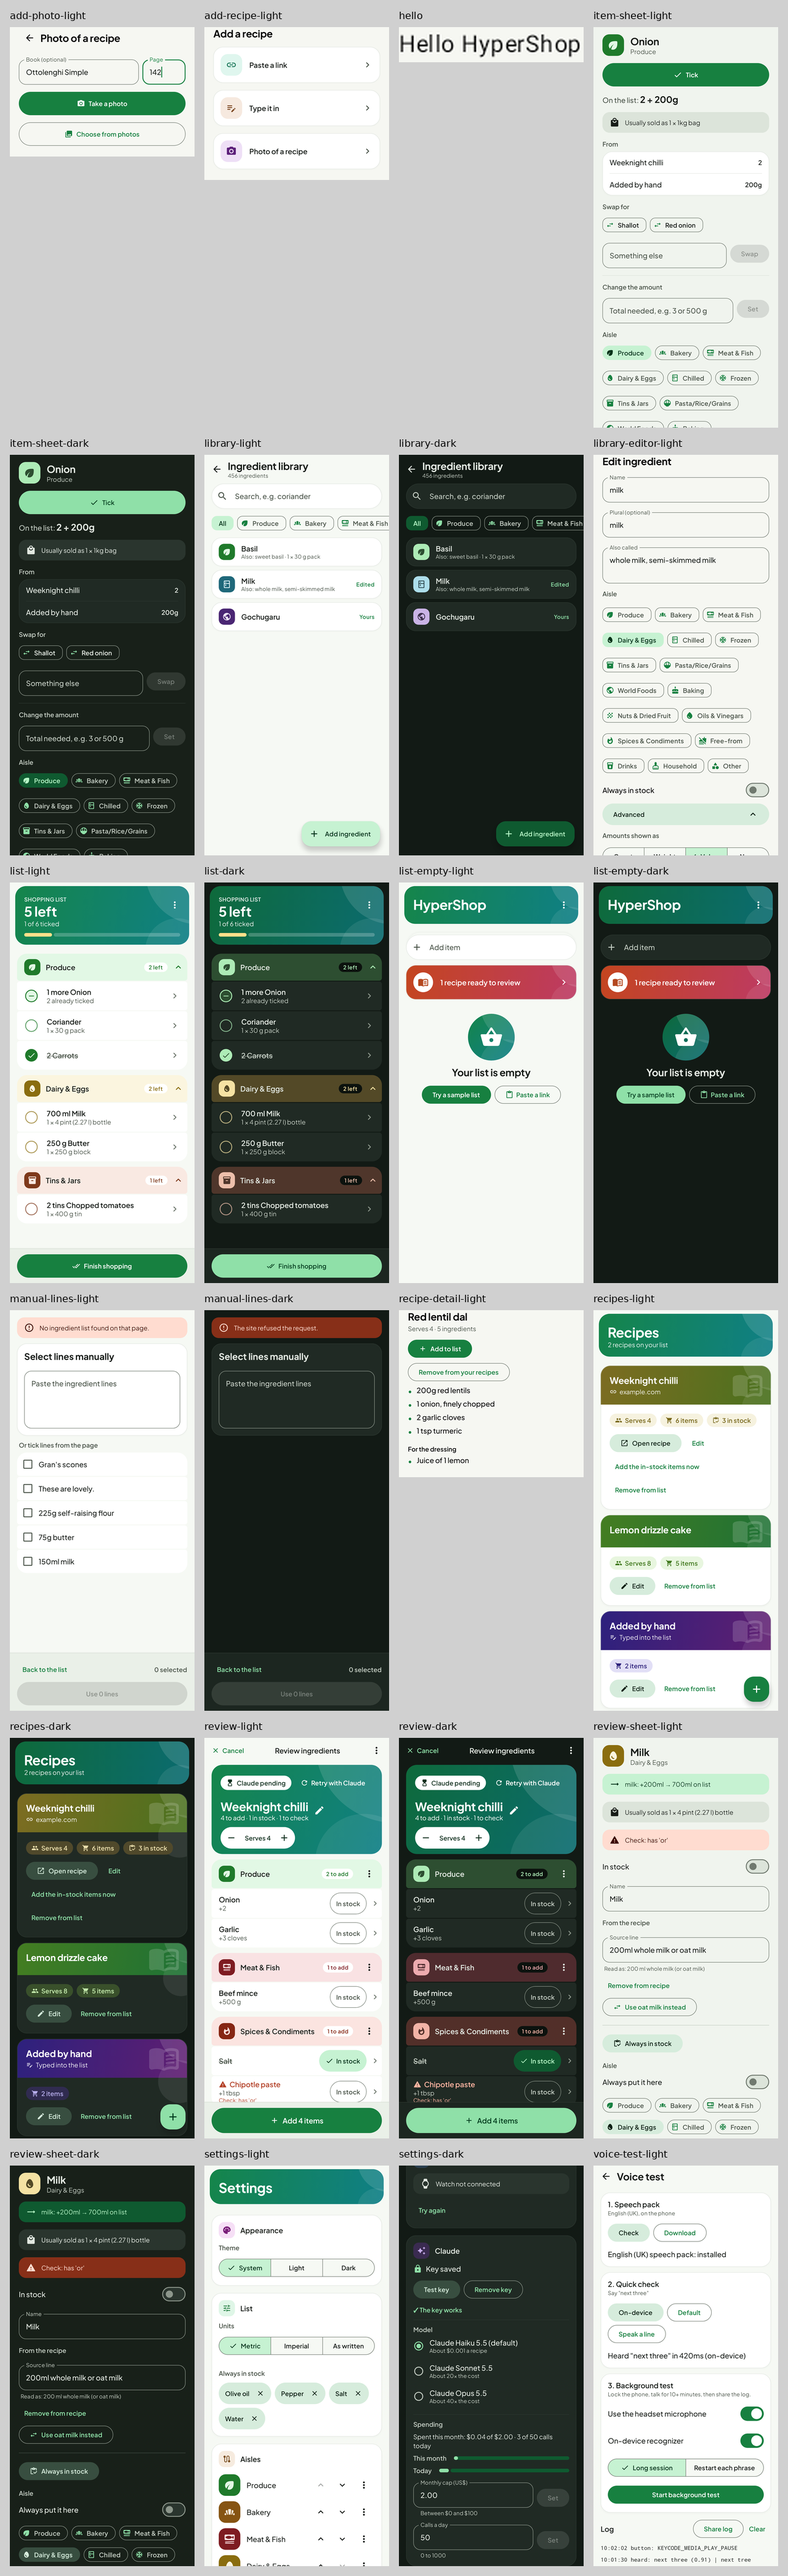
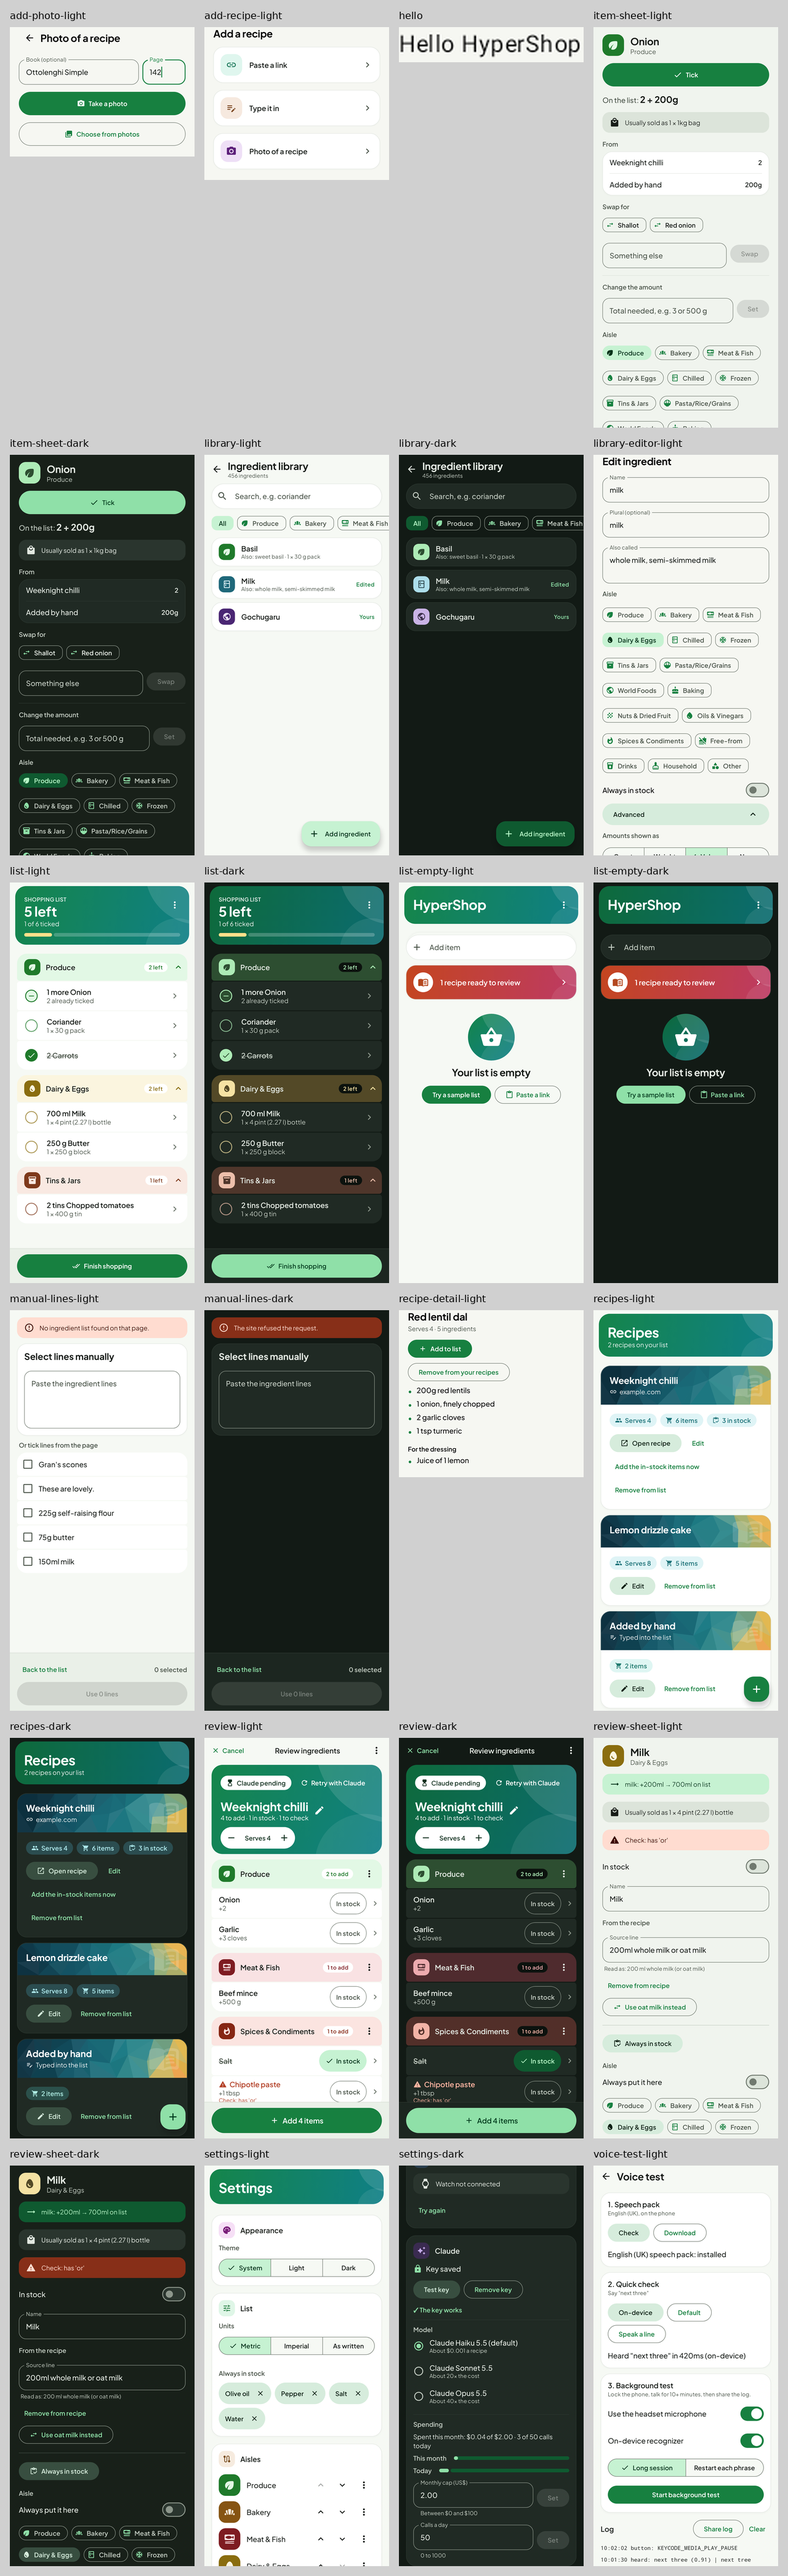
[feature] Low-poly recipe headers
Each recipe header is a seeded low-poly mosaic (deep teal to orange, after
docs/design/recipe-header.jpg): facet positions, cell splits, tilt and reach
vary per recipe title; the left side stays dark under the title.

Claude-Session: https://claude.ai/code/session_016z2Qp5Lw5mkgJm6Jzuit5a

Changed region(s): [[0.0, 0.6842, 0.25, 0.8397], [0.75, 0.5909, 1.0, 0.6531], [0.75, 0.5287, 1.0, 0.5598]]

diff --git a/android/app/src/main/java/com/robert4lyf/hypershop/ui/theme/LowPoly.kt b/android/app/src/main/java/com/robert4lyf/hypershop/ui/theme/LowPoly.kt
@@ -1,0 +1,104 @@
+package com.robert4lyf.hypershop.ui.theme
+
+import androidx.compose.ui.Modifier
+import androidx.compose.ui.draw.drawWithCache
+import androidx.compose.ui.geometry.Offset
+import androidx.compose.ui.graphics.Color
+import androidx.compose.ui.graphics.Path
+import androidx.compose.ui.graphics.lerp
+import androidx.compose.ui.unit.dp
+import kotlin.math.ceil
+import kotlin.math.cos
+import kotlin.math.sin
+import kotlin.random.Random
+
+/**
+ * A recipe header's background: a low-poly mosaic running deep teal → teal →
+ * sage → gold → orange (the style guide in docs/design/recipe-header.jpg).
+ *
+ * Every recipe gets its own, seeded by [seed] (its title) so it never changes:
+ * where the facets fall, which way each cell is split, a slight tilt of the
+ * colour run, how far the warm end reaches, and a little light and shade per
+ * facet. The left side, under the title, always stays in the dark teals so the
+ * white text keeps its contrast; the gold and orange only reach the far right.
+ */
+fun Modifier.lowPoly(seed: String): Modifier =
+    drawWithCache {
+        val rnd = Random(seed.hashCode())
+        val cell = 44.dp.toPx()
+        val cols = ceil(size.width / cell).toInt().coerceAtLeast(2)
+        val rows = ceil(size.height / cell).toInt().coerceAtLeast(2)
+        val dx = size.width / cols
+        val dy = size.height / rows
+        // Grid points, the inner ones nudged up to a third of a cell; the edges stay
+        // on the edges so the mosaic fills the box.
+        val pts =
+            Array(rows + 1) { r ->
+                Array(cols + 1) { c ->
+                    val jx = if (c in 1 until cols) (rnd.nextFloat() - 0.5f) * dx * 0.66f else 0f
+                    val jy = if (r in 1 until rows) (rnd.nextFloat() - 0.5f) * dy * 0.66f else 0f
+                    Offset(c * dx + jx, r * dy + jy)
+                }
+            }
+        // The colour run: mostly left to right, tilted a little either way, and
+        // starting a little further into the teals on some recipes than others.
+        val tilt = (rnd.nextFloat() - 0.5f) * 0.7f
+        val dirX = cos(tilt)
+        val dirY = sin(tilt)
+        val reach = 0.10f * rnd.nextFloat()
+        val facets = ArrayList<Pair<Path, Color>>(rows * cols * 2)
+        for (r in 0 until rows) {
+            for (c in 0 until cols) {
+                val a = pts[r][c]
+                val b = pts[r][c + 1]
+                val d = pts[r + 1][c]
+                val e = pts[r + 1][c + 1]
+                val tris = if (rnd.nextBoolean()) listOf(listOf(a, b, e), listOf(a, e, d)) else listOf(listOf(a, b, d), listOf(b, e, d))
+                for (t in tris) {
+                    val cx = (t[0].x + t[1].x + t[2].x) / 3f / size.width
+                    val cy = (t[0].y + t[1].y + t[2].y) / 3f / size.height
+                    val along = (cx * dirX + (cy - 0.5f) * dirY * 0.6f - reach + (rnd.nextFloat() - 0.5f) * 0.06f).coerceIn(0f, 1f)
+                    val shade = (rnd.nextFloat() - 0.5f) * 0.10f
+                    val base = sample(along)
+                    val colour = if (shade >= 0) lerp(base, Color.White, shade) else lerp(base, Color.Black, -shade)
+                    val path =
+                        Path().apply {
+                            moveTo(t[0].x, t[0].y)
+                            lineTo(t[1].x, t[1].y)
+                            lineTo(t[2].x, t[2].y)
+                            close()
+                        }
+                    facets += path to colour
+                }
+            }
+        }
+        onDrawBehind {
+            for ((path, colour) in facets) {
+                drawPath(path, colour)
+                // A hairline in the facet's own colour hides the seams anti-aliasing leaves.
+                drawPath(path, colour, style = androidx.compose.ui.graphics.drawscope.Stroke(width = 1f))
+            }
+        }
+    }
+
+/** The run, as (position, colour) stops: the warm end only past ~70% across. */
+private val STOPS =
+    listOf(
+        0.00f to Color(0xFF0D3140),
+        0.30f to Color(0xFF15596A),
+        0.55f to Color(0xFF1F7E88),
+        0.70f to Color(0xFF3C9293),
+        0.80f to Color(0xFF8DAE7A),
+        0.89f to Color(0xFFE6B84C),
+        1.00f to Color(0xFFEE8540),
+    )
+
+private fun sample(t: Float): Color {
+    val i = STOPS.indexOfLast { it.first <= t }.coerceIn(0, STOPS.size - 2)
+    val (p0, c0) = STOPS[i]
+    val (p1, c1) = STOPS[i + 1]
+    return lerp(c0, c1, ((t - p0) / (p1 - p0)).coerceIn(0f, 1f))
+}
+
+/** Hues from the same run, for a recipe's chips and icons: teal, sage, gold, orange. */
+internal val LOW_POLY_HUES = floatArrayOf(192f, 184f, 172f, 98f, 42f, 24f)

diff --git a/android/app/src/main/java/com/robert4lyf/hypershop/ui/theme/Brand.kt b/android/app/src/main/java/com/robert4lyf/hypershop/ui/theme/Brand.kt
@@ -11,7 +11,7 @@ import androidx.compose.ui.graphics.Color
 /**
  * The brand's colour beyond Material's roles (docs/design/ui-overhaul.md,
  * "Colour pass"): a basil-to-lagoon gradient for heroes, citrus for highlights
- * on it, and a hue per recipe. White text clears 4.5:1 on every gradient here.
+ * on it, and a low-poly header per recipe ([lowPoly]). White text clears 4.5:1 on every gradient here.
  */
 object Brand {
     val Citrus = Color(0xFFFFE08A)
@@ -23,13 +23,8 @@ object Brand {
     /** Warm, for "ready to review": a call to act, distinct from the basil header. White text clears 4.5:1 on both ends. */
     val WarmCall = Brush.linearGradient(listOf(Color(0xFFC4451F), Color(0xFFBD3A64)))
 
-    /** A recipe's own two-tone gradient, picked from its title so it stays the same. */
-    fun recipeBrush(seed: String): Brush {
-        val hue = recipeHue(seed)
-        return Brush.linearGradient(listOf(Color.hsl(hue, 0.58f, 0.31f), Color.hsl((hue + 40f) % 360f, 0.58f, 0.28f)))
-    }
-
-    fun recipeHue(seed: String): Float = ((seed.hashCode() % 360 + 360) % 360).toFloat()
+    /** A recipe's hue for its chips and icons, from its header's palette and picked by its title, so it stays the same. */
+    fun recipeHue(seed: String): Float = LOW_POLY_HUES[(seed.hashCode() % LOW_POLY_HUES.size + LOW_POLY_HUES.size) % LOW_POLY_HUES.size]
 
     /** A soft tint of [hue] for chips on a card. */
     fun tint(

diff --git a/android/app/src/main/java/com/robert4lyf/hypershop/ui/recipes/RecipesRoute.kt b/android/app/src/main/java/com/robert4lyf/hypershop/ui/recipes/RecipesRoute.kt
@@ -86,7 +86,7 @@ import com.robert4lyf.hypershop.ui.list.show
 import com.robert4lyf.hypershop.ui.theme.Brand
 import com.robert4lyf.hypershop.ui.theme.LocalDarkTheme
 import com.robert4lyf.hypershop.ui.theme.card
-import com.robert4lyf.hypershop.ui.theme.heroGlow
+import com.robert4lyf.hypershop.ui.theme.lowPoly
 import com.robert4lyf.hypershop.ui.util.factoryFor
 
 @Composable
@@ -459,7 +459,7 @@ private fun UseCard(
         val hue = Brand.recipeHue(use.title)
         Column {
             // The recipe's own colour band: the same hue as its review screen.
-            Box(Modifier.fillMaxWidth().background(Brand.recipeBrush(use.title)).heroGlow()) {
+            Box(Modifier.fillMaxWidth().lowPoly(use.title)) {
                 Icon(
                     Icons.AutoMirrored.Rounded.MenuBook,
                     contentDescription = null,
